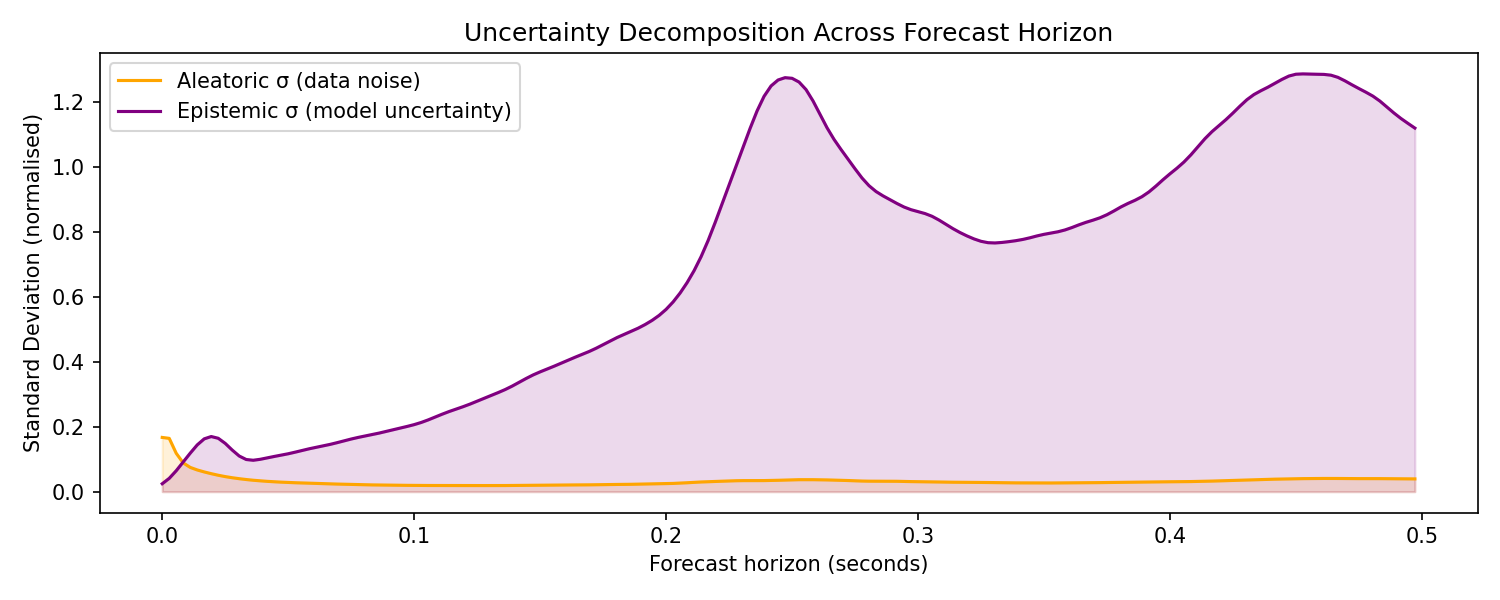
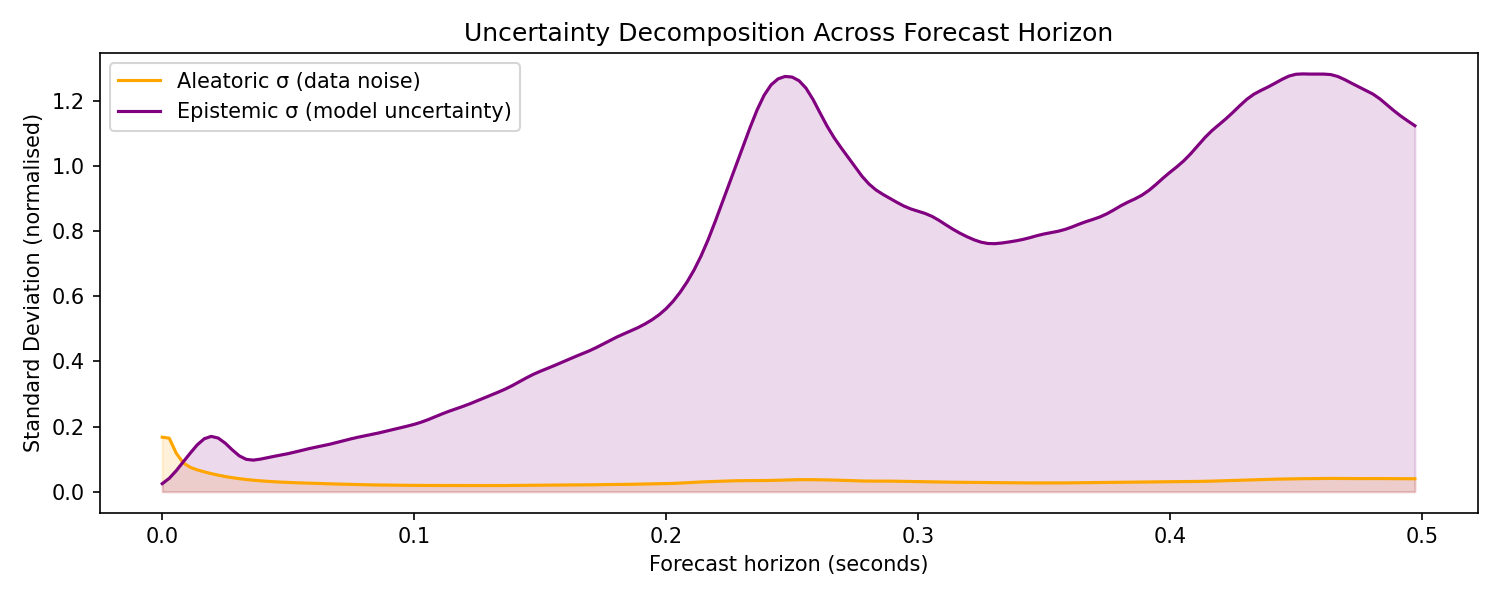
Add files via upload

diff --git a/test.py b/test.py
@@ -48,7 +48,6 @@ import matplotlib.pyplot as plt
 import numpy as np
 import torch
 import torch.nn.functional as F
-import scipy.stats as stats
 
 from config import (
     DATA_FOLDER, INPUT_LEN, FORECAST_LEN, STRIDE,
